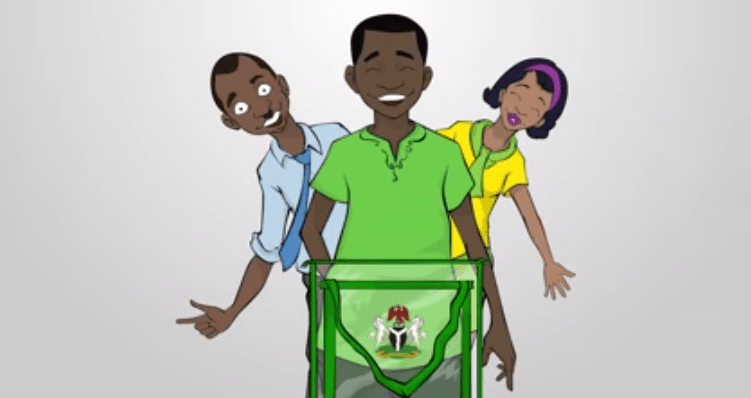
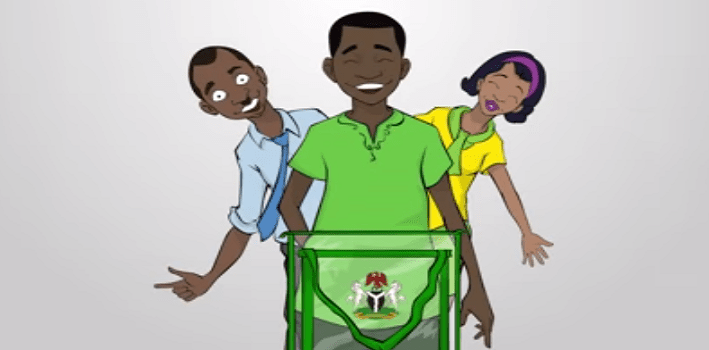
fixed stretched slider image

Changed region(s): [[0.2172, 0.0571, 0.7757, 1.0], [0.4654, 0.0286, 0.5585, 0.1714], [0.4344, 0.1714, 0.4654, 0.2286]]

diff --git a/client/css/app.css b/client/css/app.css
@@ -92,12 +92,39 @@ header nav ul li a{
 /** slider **/
 .slider {
   background: #fff;
-  height: 250px;
+  height: calc(100vh - 60px + 30px );
   border-bottom: 20px solid #222222;
 }
 .slider img {
   width: 100%;
   height: 100%;
+}
+.slider img:hover {
+  transform: rotateX(10deg) rotateY(-10deg);
+}
+.slider .placeholder h2, .slider .placeholder h4 {
+  text-shadow: 0 0 12px rgb(59, 59, 59);
+}
+.slider .placeholder h2{
+  color: #FFFFFF;
+}
+.slider-overlay {
+  width: 100%;
+  height: calc(100vh - 60px + 34px );
+  position: absolute;
+  background: -moz-linear-gradient(-45deg, #000000 0%, #000000 25%, #1e539e 50%, #ff3083 75%, #7800a8 100%);
+  background: -webkit-linear-gradient(-45deg, #000000 0%, #000000 25%, #1e539e 50%, #ff3083 75%, #7800a8 100%);
+  background: linear-gradient(135deg, #000000 0%, #000000 25%, #1e539e 50%, #ff3083 75%, #7800a8 100%);
+  position: absolute;
+  top: 60px;
+  transition: .5s all;
+  opacity: 0.4;
+}
+.slider:hover .slider-overlay {
+  background: -moz-linear-gradient(-45deg,  #7800a8 100%, #ff3083 75%, #1e539e 50%,#000000 0%,#000000 25%);
+  background: -webkit-linear-gradient(-45deg,  #7800a8 100%, #ff3083 75%, #1e539e 50%,#000000 0%,#000000 25%);
+  background: linear-gradient(135deg,  #7800a8 100%, #ff3083 75%, #1e539e 50%, #000000 0%, #000000 25%);
+  opacity: 0.1;
 }
 
 /** footer area **/
@@ -254,6 +281,8 @@ main {
   height: 150px;
 }
 .toast {
+  visibility: hidden;
+  opacity: 0;
   position: fixed;
   display: flex;
   border-radius: 3px;
@@ -303,6 +332,7 @@ main {
   background: seagreen;
   color: #fff;
   display: block;
+  border-radius: 38px;
 }
 
 @media all and (min-width: 610px) {
@@ -351,6 +381,10 @@ main {
 label, input, option, select {
   transition: all 0.2s;
   touch-action: manipulation;
+  height: 40px;
+}
+option, select {
+  padding: 15px;
 }
 label, .button, button {
   margin: 5px;
@@ -400,6 +434,7 @@ input:focus + label {
   padding-top: 6px;
   padding-bottom: 6px;
   border: none;
+  border-radius: 38px;
   cursor: pointer;
   background: #17112348;
 }
@@ -680,7 +715,6 @@ tr:hover td {
   border-top: 1px solid #22262e;
 }
 a.button {
-  border-radius: 8%;
   border: 2px solid rgb(48, 163, 73);
   background: #fff;
   color: rgb(48, 163, 73);
@@ -696,4 +730,9 @@ a.button {
 a[href="https://twitter.com/emmsdan"] {
   font-weight: 900;
   text-transform: uppercase;
+}
+.absolute.center {
+  position: absolute;
+  top: 45%;
+  left:35%
 }

diff --git a/client/js/app.js b/client/js/app.js
@@ -13,7 +13,7 @@ window.addEventListener('load', (event) => {
 const slider = () => {
   const sliderImage = document.querySelector('.slider img');
   if (!sliderImage) return;
-  const images = ['./img/nigerians-are-you-ready-to-Vote-in-2015-YouTube.png', './img/nigeria.png',  './img/voting.jpg', './img/nigerians-are-you-ready-to-Vote-in-2015-YouTube.png'];
+  const images = ['./img/nigerians-are-you-ready-to-Vote-in-2015-YouTube.png', './img/nigeria.png',  './img/voting.jpg', './img/nigeriavote.jpg', './img/Voters-Card.jpg', './img/nigerians-are-you-ready-to-Vote-in-2015-YouTube.png'];
   let nextImg = 0;
   const randomImage = (image) => {
     sliderImage.src = image;
@@ -28,24 +28,29 @@ const slider = () => {
   }, 5000)
 }
 
+/**
+ *
+ */
 const modal = () => {
-  const target = document.querySelector('[data-modal]').getAttribute('data-modal');
-  const modal = document.querySelector(target);
-  const trigger = document.querySelector("[data-modal]");
-  const closeButton = document.querySelector(".close");
+  const target = document.querySelector('[data-modal]');
+  if (target) {
+    const modal = document.querySelector(target.getAttribute('data-modal'));
+    const trigger = document.querySelector("[data-modal]");
+    const closeButton = document.querySelector(".close");
 
-    function toggleModal() {
-        modal.classList.toggle("show");
-    }
+      function toggleModal() {
+          modal.classList.toggle("show");
+      }
 
-    const closeOnClick = (event) => {
-        if (event.target === modal) {
-            toggleModal();
-        }
-    }
-    trigger.addEventListener("click", toggleModal);
-    closeButton.addEventListener("click", toggleModal);
-    window.addEventListener("click", closeOnClick);
+      const closeOnClick = (event) => {
+          if (event.target === modal) {
+              toggleModal();
+          }
+      }
+      trigger.addEventListener("click", toggleModal);
+      closeButton.addEventListener("click", toggleModal);
+      window.addEventListener("click", closeOnClick);
+  }
 }
 
 /**

diff --git a/client/index.html b/client/index.html
@@ -19,7 +19,14 @@
     <header data-add-file="./header.txt"></header>
     <main>
         <section class="slider" role="slider">
-          <img src="./img/nigerians-are-you-ready-to-Vote-in-2015-YouTube.png" alt="nigerians-are-you-ready-to-Vote-in-2015-YouTube.png" />
+          <img src="./img/nigeria.png" alt="nigerians-are-you-ready-to-Vote-in-2015-YouTube.png" />
+          <div class="slider-overlay"></div>
+          <div class="call-to-action absolute center">
+            <div class="placeholder">
+                <h2>My Vote is my Right</h2>
+                <a href="./signup.html" class="button rounded"> Register Today </a>
+            </div>
+          </div>
         </section>
 
         <section class="call-to-action">
